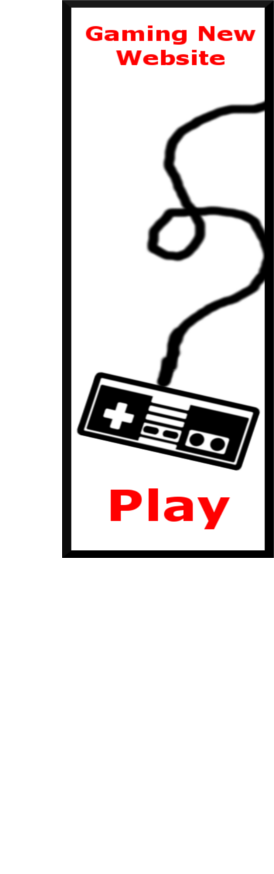
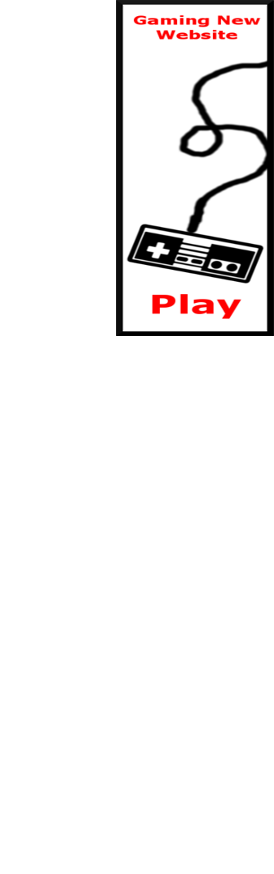
more changes to the sitemap

Changed region(s): [[0.2044, 0.0, 1.0, 0.6487]]

diff --git a/Team project/sitemap.html b/Team project/sitemap.html
@@ -64,9 +64,10 @@
 <h3><a href="contact.html">Contacts</a></h3>
 <h3><a href="sitemap.html">Site Map</a></h3>
 </div>
-<div id="banner">
+<main id="banner">
 <img src="images/banner.png" alt="gaming banner">
 </div>
+</main>
 </main>
 <footer>
 <p>COPYRIGHT&copy; X-GLOBAL LTD DESIGNED BY RYAN|WEI|KEN</p>

diff --git a/Team project/Styles/indexconsole.css b/Team project/Styles/indexconsole.css
@@ -77,6 +77,14 @@ nav strong{color:white;
 		border:none;
 		text-decoration:none;
 		color:white;}
+.navbar {float:left;
+padding-left:20px;
+width:30%;
+}
+.banner {
+padding-left:20px;
+float: left;
+}
 .dropdown {position:relative;
            display:inline-block}
 .dropdown-content {display:none;
